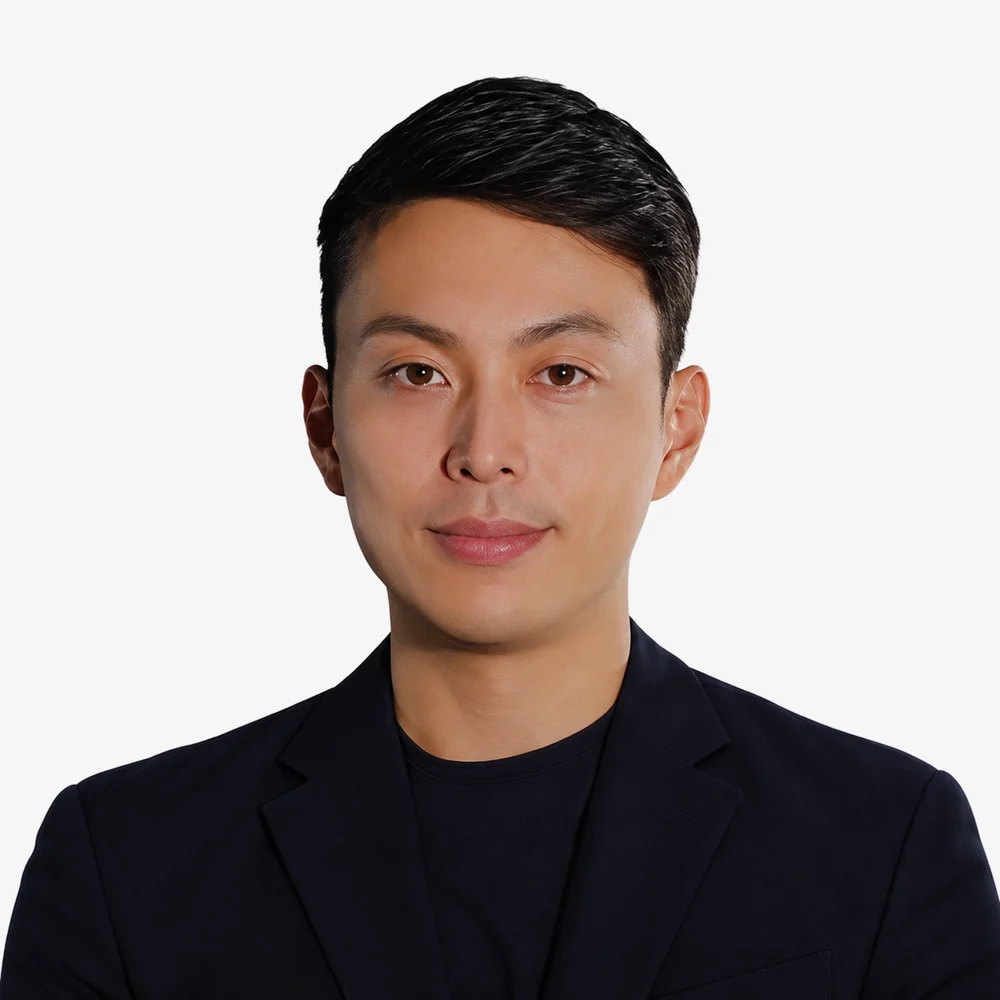
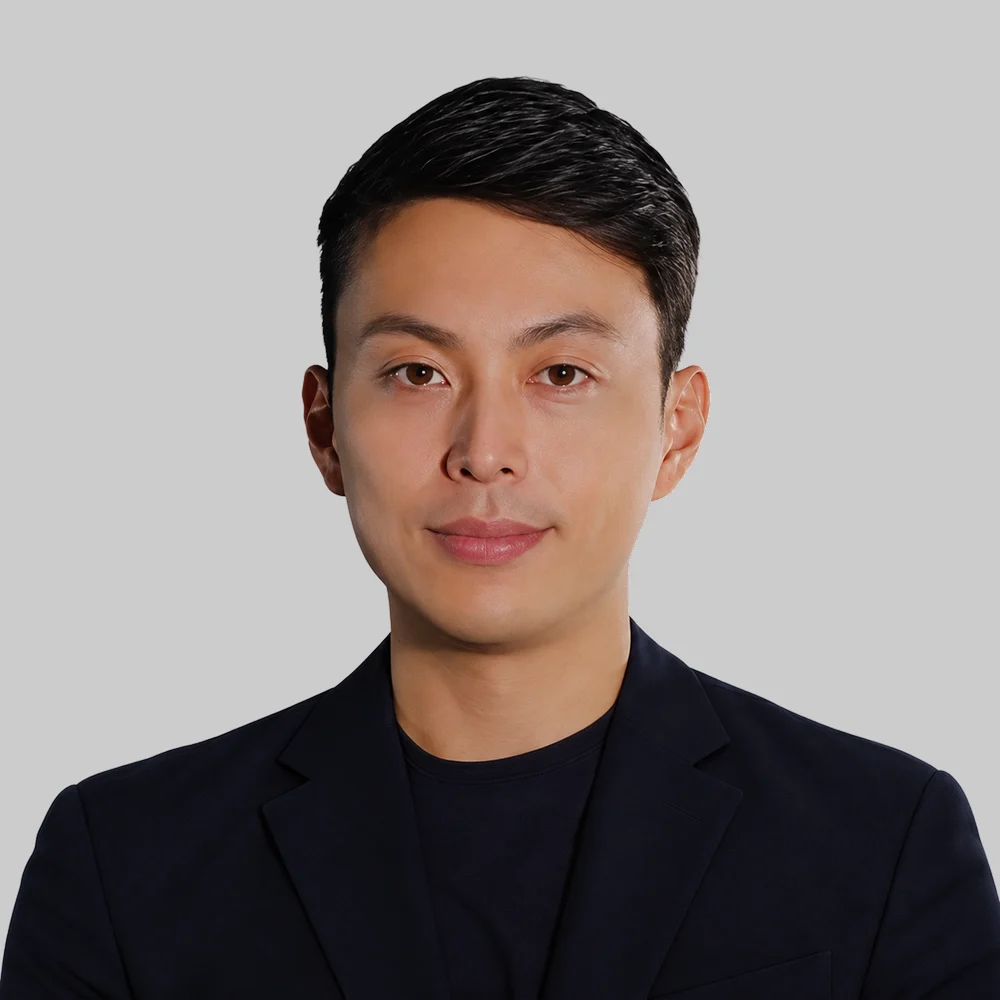
[style]update feedback-22

diff --git a/packages/blocks/src/site/PersonCard.tsx b/packages/blocks/src/site/PersonCard.tsx
@@ -10,7 +10,7 @@ export type PersonCardData = {
   image: string | null;
   /** 이미지가 없을 때 회색 상자에 적을 글자 */
   imageFallback?: string;
-  /** wide(디렉터) 넓은 화면 사진: 정사각 사진을 넓은 카드 안에 양옆 여백을 두고 놓음 (배경 #f5f5f5). 없으면 빈 카드 */
+  /** wide(디렉터) 넓은 화면 사진: 정사각 사진을 넓은 카드 안에 양옆 여백을 두고 놓음 (배경 #ccc — 사진 배경도 #ccc 로 맞춰 둠). 없으면 빈 카드 */
   wideImage?: string | null;
 };
 
@@ -67,7 +67,7 @@ export function PersonCard({
           </div>
           {/*
             sm 이상: 비율 대신 오른쪽 글 단 높이에 맞춘 카드 (칸을 채우고 줄 높이는 글이 정함)
-            wideImage 가 있으면 정사각 사진을 카드 높이에 맞춰, 사진 가운데가 카드 폭의 1/3 지점에 오게 놓고 양옆은 사진 배경색(#f5f5f5)으로 채움
+            wideImage 가 있으면 정사각 사진을 카드 높이의 88% 로 아래에 붙이고, 사진 가운데가 카드 폭의 1/3 지점에 오게 놓음. 나머지는 아래 인물 사진들과 같은 배경 회색(#ccc)
           */}
           <div className={classNames("hidden sm:relative sm:block")}>
             {person.wideImage ? (
@@ -75,7 +75,7 @@ export function PersonCard({
                 className={classNames(
                   "absolute inset-0",
                   "overflow-hidden",
-                  "rounded-2xl bg-[#f5f5f5]",
+                  "rounded-2xl bg-[#ccc]",
                 )}
               >
                 <img
@@ -83,7 +83,7 @@ export function PersonCard({
                   alt={person.name}
                   decoding="async"
                   className={classNames(
-                    "aspect-square h-full",
+                    "aspect-square h-[88%]",
                     "absolute bottom-0 left-1/3 -translate-x-1/2",
                     "object-cover grayscale",
                   )}
